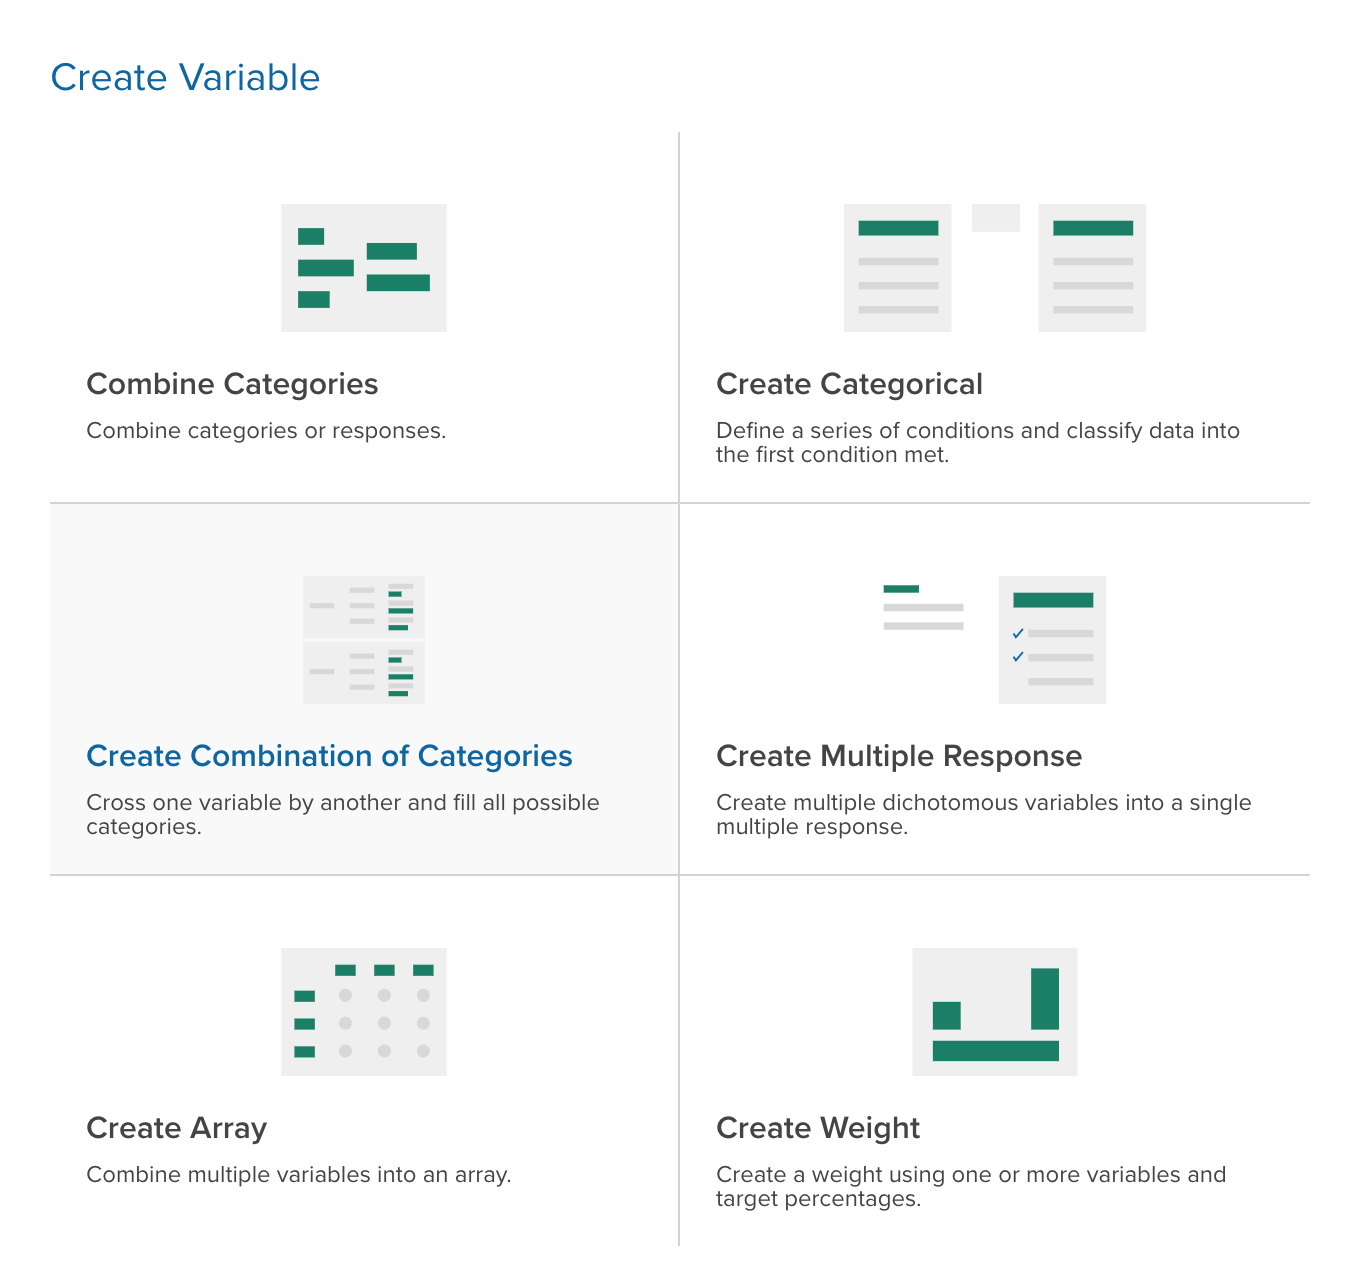
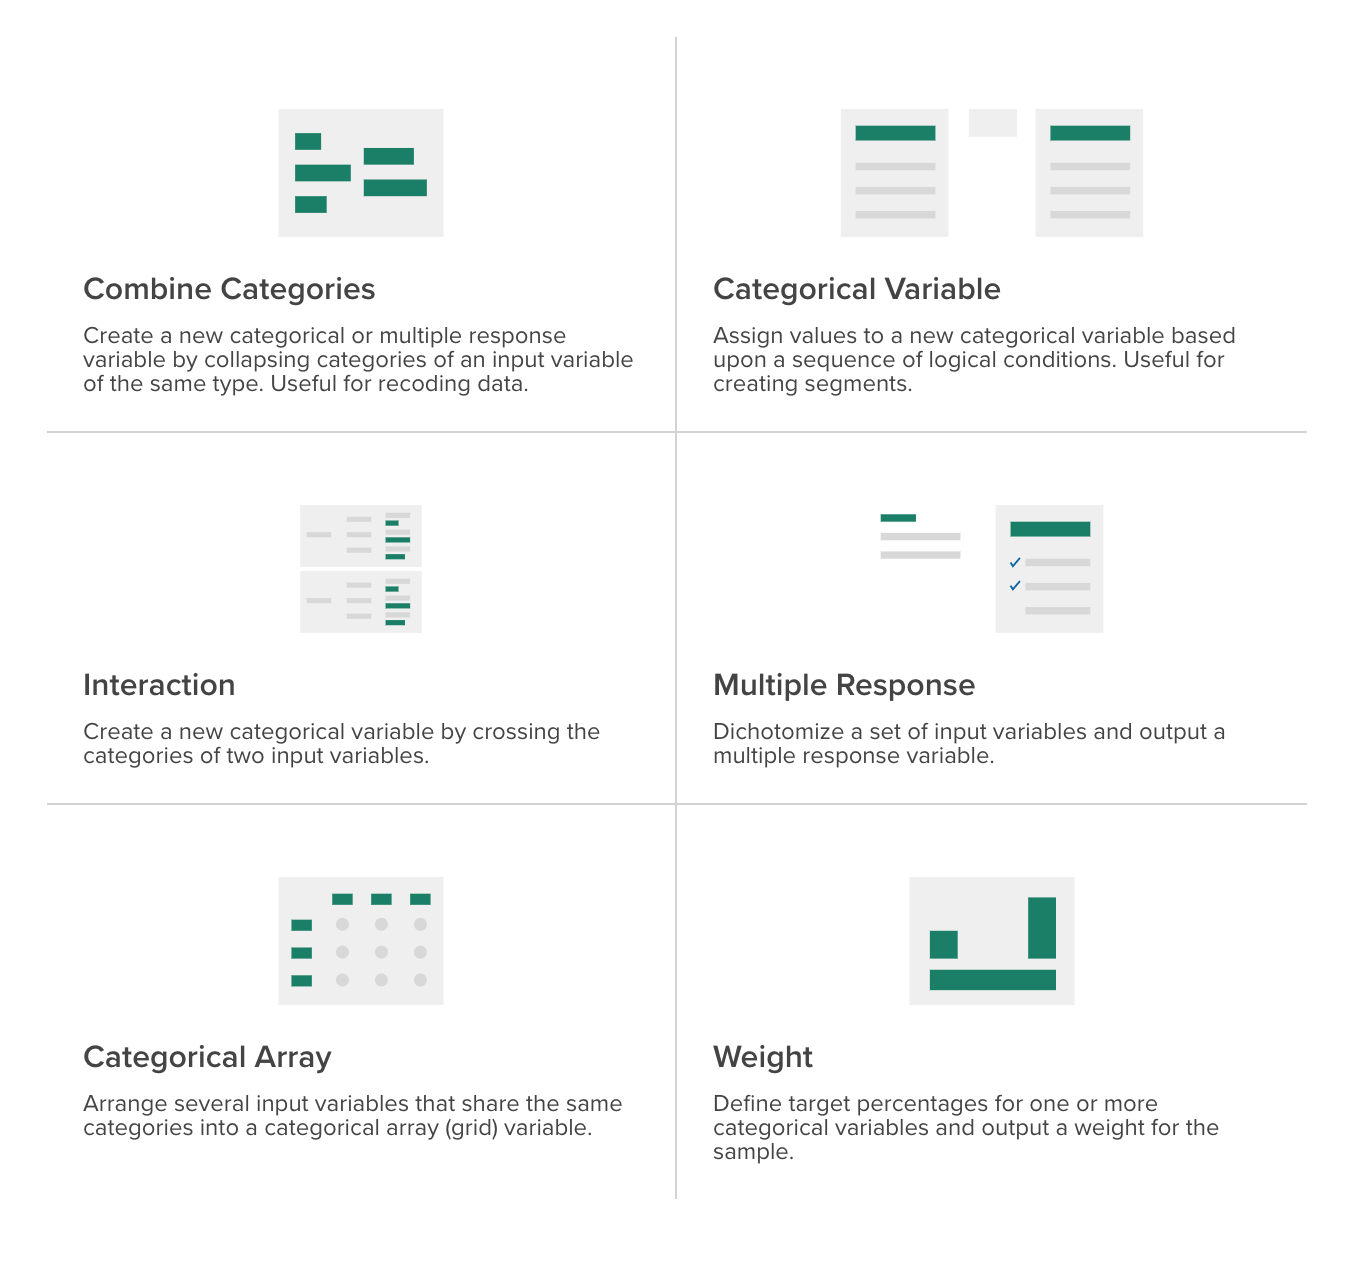
updated to reflect new variable chooser

diff --git a/content/dev/features/interaction-builder.md b/content/dev/features/interaction-builder.md
@@ -1,26 +1,25 @@
 +++
-date = "2019-11-14T11:19:42Z"
-publishdate = "2019-11-14T21:51:50+0000"
-title = "Combine all the categories from two variables"
-description = "Cross one variable by another and fill all categories in 3 clicks with the new ‘combination of categories’ variable builder."
+date = "2019-11-21"
+title = "Create the interaction of two variables"
+description = "Cross one variable by another to fill all categories in 3 clicks with the new Interaction variable builder."
 weight = 20
 tags = ["analyses"]
 categories = ["feature"]
 images = ["https://crunch.io/img/logo-1200x630.png"]
-labs_only = true
+labs_only = false
 no_profiles = true
 +++
 
 {{< figure src="dev/features/images/interact-variable-result.png" class="float-md-right img-fluid">}}
 
-To look in detail at your data, you sometimes need to create a variable that is the interaction of other categorical variables. You want to know not just how results differ between age groups or education level, but by age × education. The Crunch application lets you do this in just a few clicks by selecting the variables to interact — give the result a name (or accept the default of ‘x by y’) and you’re set.
+To look in detail at your data, you sometimes need to create a variable that is the _interaction_ of other categorical variables. You want to know not just how results differ between age groups or education level, but by age × education. The Crunch application lets you do this in just a few clicks by selecting the variables to interact — give the result a name (or accept the default of ‘x by y’) and you’re set.
 
 
 
 {{< figure src="dev/features/images/new-variable-chooser.png" class="img-fluid">}}
 
 
-To get started, click **+ New Variable** at the bottom of the variable list, and select “Create combination of categories.” Then select input variables, give it a name, and click Save. If you are a dataset editor, you can choose to share it with the whole dataset. The whole procedure is shown at reduced speed in the animation below.
+To get started, click **+ New Variable** at the bottom of the variable list, and select “Interaction.” Then select input variables, give it a name, and click Save. If you are a dataset editor, you can choose to share it with the whole dataset. The whole procedure is shown at reduced speed in the animation below.
 
 {{< figure src="dev/features/images/interaction-builder.gif" class="img-fluid">}}
 
